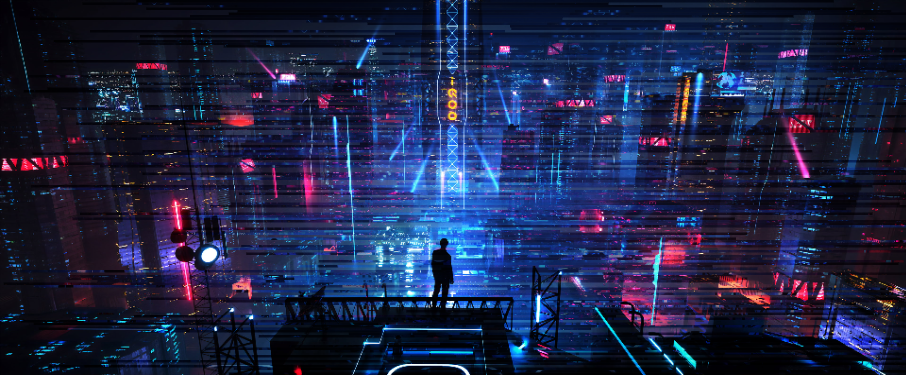
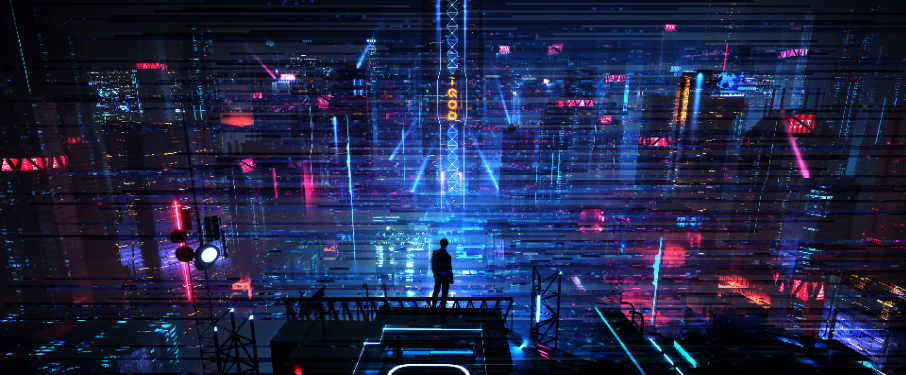
bg glitch finished commit

diff --git a/src/App.css b/src/App.css
@@ -1,105 +1,144 @@
 .glitch {
-    text-shadow:  0.05em 0 0 rgba(255, 0, 0, 0.75) ,
-    -0.025em -0.05em 0 rgba(0, 255, 0, 0.75) ,
-    0.025em 0.05em 0  rgba(0, 0, 255, 0.75);
+    text-shadow: 0.05em 0 0 rgba(255, 0, 0, 0.75),
+        -0.025em -0.05em 0 rgba(0, 255, 0, 0.75),
+        0.025em 0.05em 0 rgba(0, 0, 255, 0.75);
 
-    animation: glitch 2000ms infinite ;
+    animation: glitch 2000ms infinite;
 }
 
-.glitch span{
+.glitch span {
     position: absolute;
-      
+
 }
 
-.glitch :first-child{
-    animation: glitch 650ms infinite ;
-    clip-path: polygon(0 0,100% 0,100% 45%, 0 45% );
-    transform: translate(-0.05em , -0.025em);
+.glitch :first-child {
+    animation: glitch 650ms infinite;
+    clip-path: polygon(0 0, 100% 0, 100% 45%, 0 45%);
+    transform: translate(-0.05em, -0.025em);
     opacity: .8;
 }
 
-.glitch :last-child{
-    animation: glitch 375ms infinite ;
-    clip-path: polygon(0 60%,100% 60%,100% 100%, 0 100% );
-    transform: translate(-0.05em , -0.025em);
+.glitch :last-child {
+    animation: glitch 375ms infinite;
+    clip-path: polygon(0 60%, 100% 60%, 100% 100%, 0 100%);
+    transform: translate(-0.05em, -0.025em);
     opacity: 0.8;
 
 }
 
 
 @keyframes glitch {
-    0%{
-        text-shadow:  0.05em 0 0 rgba(255, 0, 0, 0.75) ,
-        -0.05em -0.025em 0 rgba(0, 255, 0, 0.75) ,
-        0.025em 0.05em 0  rgba(0, 0, 255, 0.75);
+    0% {
+        text-shadow: 0.05em 0 0 rgba(255, 0, 0, 0.75),
+            -0.05em -0.025em 0 rgba(0, 255, 0, 0.75),
+            0.025em 0.05em 0 rgba(0, 0, 255, 0.75);
     }
-    14%{
-        text-shadow:  0.05em 0 0 rgba(255, 0, 0, 0.75) ,
-        -0.05em -0.025em 0 rgba(0, 255, 0, 0.75) ,
-        0.025em 0.05em 0  rgba(0, 0, 255, 0.75);
+
+    14% {
+        text-shadow: 0.05em 0 0 rgba(255, 0, 0, 0.75),
+            -0.05em -0.025em 0 rgba(0, 255, 0, 0.75),
+            0.025em 0.05em 0 rgba(0, 0, 255, 0.75);
     }
-    15%{
-        text-shadow:  -0.05em -0.025em 0 rgba(255, 0, 0, 0.75) ,
-        0.025em 0.025em 0 rgba(0, 255, 0, 0.75) ,
-        -0.05em -0.05em 0  rgba(0, 0, 255, 0.75);
+
+    15% {
+        text-shadow: -0.05em -0.025em 0 rgba(255, 0, 0, 0.75),
+            0.025em 0.025em 0 rgba(0, 255, 0, 0.75),
+            -0.05em -0.05em 0 rgba(0, 0, 255, 0.75);
     }
-    49%{
-        text-shadow:  -0.05em -0.025em 0 rgba(255, 0, 0, 0.75) ,
-        0.025em 0.025em 0 rgba(0, 255, 0, 0.75) ,
-        -0.05em -0.05em 0  rgba(0, 0, 255, 0.75);
+
+    49% {
+        text-shadow: -0.05em -0.025em 0 rgba(255, 0, 0, 0.75),
+            0.025em 0.025em 0 rgba(0, 255, 0, 0.75),
+            -0.05em -0.05em 0 rgba(0, 0, 255, 0.75);
     }
-    50%{
-        text-shadow:  0.025em 0.05em 0 rgba(255, 0, 0, 0.75) ,
-        0.05em 0 0 rgba(0, 255, 0, 0.75) ,
-        0 -0.05em 0  rgba(0, 0, 255, 0.75);
+
+    50% {
+        text-shadow: 0.025em 0.05em 0 rgba(255, 0, 0, 0.75),
+            0.05em 0 0 rgba(0, 255, 0, 0.75),
+            0 -0.05em 0 rgba(0, 0, 255, 0.75);
     }
-    99%{
-        text-shadow:  0.025em 0.05em 0 rgba(255, 0, 0, 0.75) ,
-        0.05em 0 0 rgba(0, 255, 0, 0.75) ,
-        0 -0.05em 0  rgba(0, 0, 255, 0.75);
+
+    99% {
+        text-shadow: 0.025em 0.05em 0 rgba(255, 0, 0, 0.75),
+            0.05em 0 0 rgba(0, 255, 0, 0.75),
+            0 -0.05em 0 rgba(0, 0, 255, 0.75);
     }
-    100%{
-        text-shadow:  -0.025em 0 0 rgba(255, 0, 0, 0.75) ,
-        -0.025em -0.025em 0 rgba(0, 255, 0, 0.75) ,
-        -0.025em -0.05em 0  rgba(0, 0, 255, 0.75);
+
+    100% {
+        text-shadow: -0.025em 0 0 rgba(255, 0, 0, 0.75),
+            -0.025em -0.025em 0 rgba(0, 255, 0, 0.75),
+            -0.025em -0.05em 0 rgba(0, 0, 255, 0.75);
     }
 }
 
-.imgGlitch :nth-child(2)  {
-   
-    animation: imgglitch 3.4s infinite steps(1) ;
-    
-}
+.imgGlitch :nth-child(1) {
 
-.imgGlitch :nth-child(3)  {
-   
-    animation: imgglitch 1.4s infinite steps(1) ;
-    
-}
-
-.imgGlitch :nth-child(4)  {
-   
-    animation: imgglitch 5.4s infinite steps(1) ;
-    
-}
-
-
-
-@keyframes imgglitch {
-   0%,100%{
-    opacity: 0;
-   }
-   92.5%{
     opacity: 1;
 
-   }
-   95%{
-   opacity: 0;
+}
 
-   }
-   97.5%{
-    opacity: 1;
 
-   }
+.imgGlitch :nth-child(2) {
+
+    animation: imgglitch1 5s infinite steps(1);
+
+}
+
+.imgGlitch :nth-child(3) {
+
+    animation: imgglitch2 5s infinite steps(1);
+
+}
+
+
+.imgGlitch :nth-child(4) {
+
+    animation: imgglitch3 5s infinite steps(1);
+
+}
+
+
+
+
+@keyframes imgglitch1 {
+
+    0%,
+    100% {
+        opacity: 0;
+    }
+
+    92% {
+        opacity: 1;
+    }
+
+}
+
+
+
+@keyframes imgglitch2 {
+
+    0%,
+    100% {
+        opacity: 0;
+    }
+    93% {
+        opacity: 1;
+    }
+
+    95% {
+        opacity: 1;
+    }
+}
+
+@keyframes imgglitch3 {
+
+    0%,
+    100% {
+        opacity: 0;
+    }
+
+    96% {
+        opacity: 1;
+    }
 }
 

diff --git a/src/components/Home.jsx b/src/components/Home.jsx
@@ -43,11 +43,10 @@ export default function Home() {
                 style={{
                     scale: 1 + (ypos / 5) + ''
                 }}
-
             />
             
             <img src="./assets/gbg/gbg1.png"
-                className=" fixed h-[100vh] w-full object-cover z-[-1] "
+                className=" fixed h-[100vh] opacity-0 w-full object-cover z-[-1] "
                 style={{
                     scale: 1 + (ypos / 5) + ''
                 }}
@@ -55,7 +54,7 @@ export default function Home() {
             />
 
             <img src="./assets/gbg/gbg2.png"
-                className=" fixed h-[100vh]  w-full object-cover z-[-1] "
+                className=" fixed h-[100vh] opacity-0  w-full object-cover z-[-1] "
                 style={{
                     scale: 1 + (ypos / 5) + ''
                 }}
@@ -64,7 +63,7 @@ export default function Home() {
                         
 
             <img src="./assets/gbg/gbg3.png"
-                className=" fixed h-[100vh] w-full object-cover z-[-1] "
+                className=" fixed h-[100vh] opacity-0 w-full object-cover z-[-1] "
                 style={{
                     scale: 1 + (ypos / 5) + ''
                 }}
